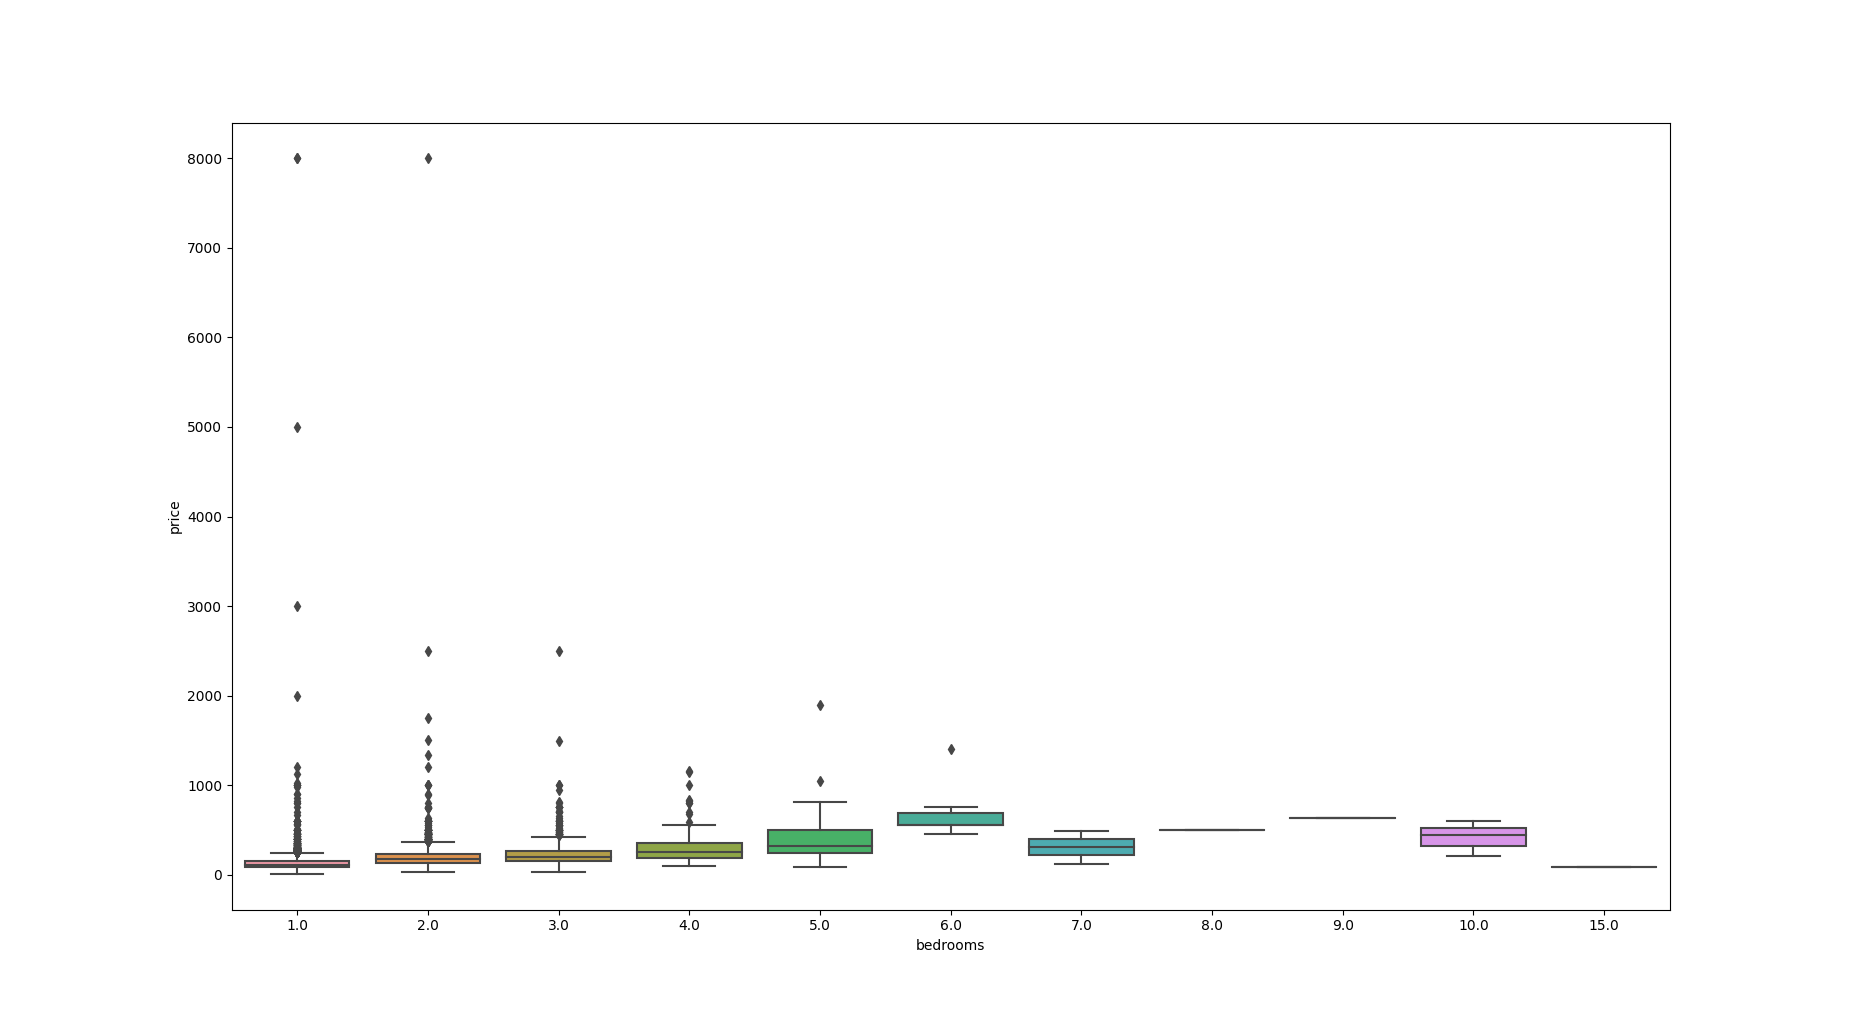
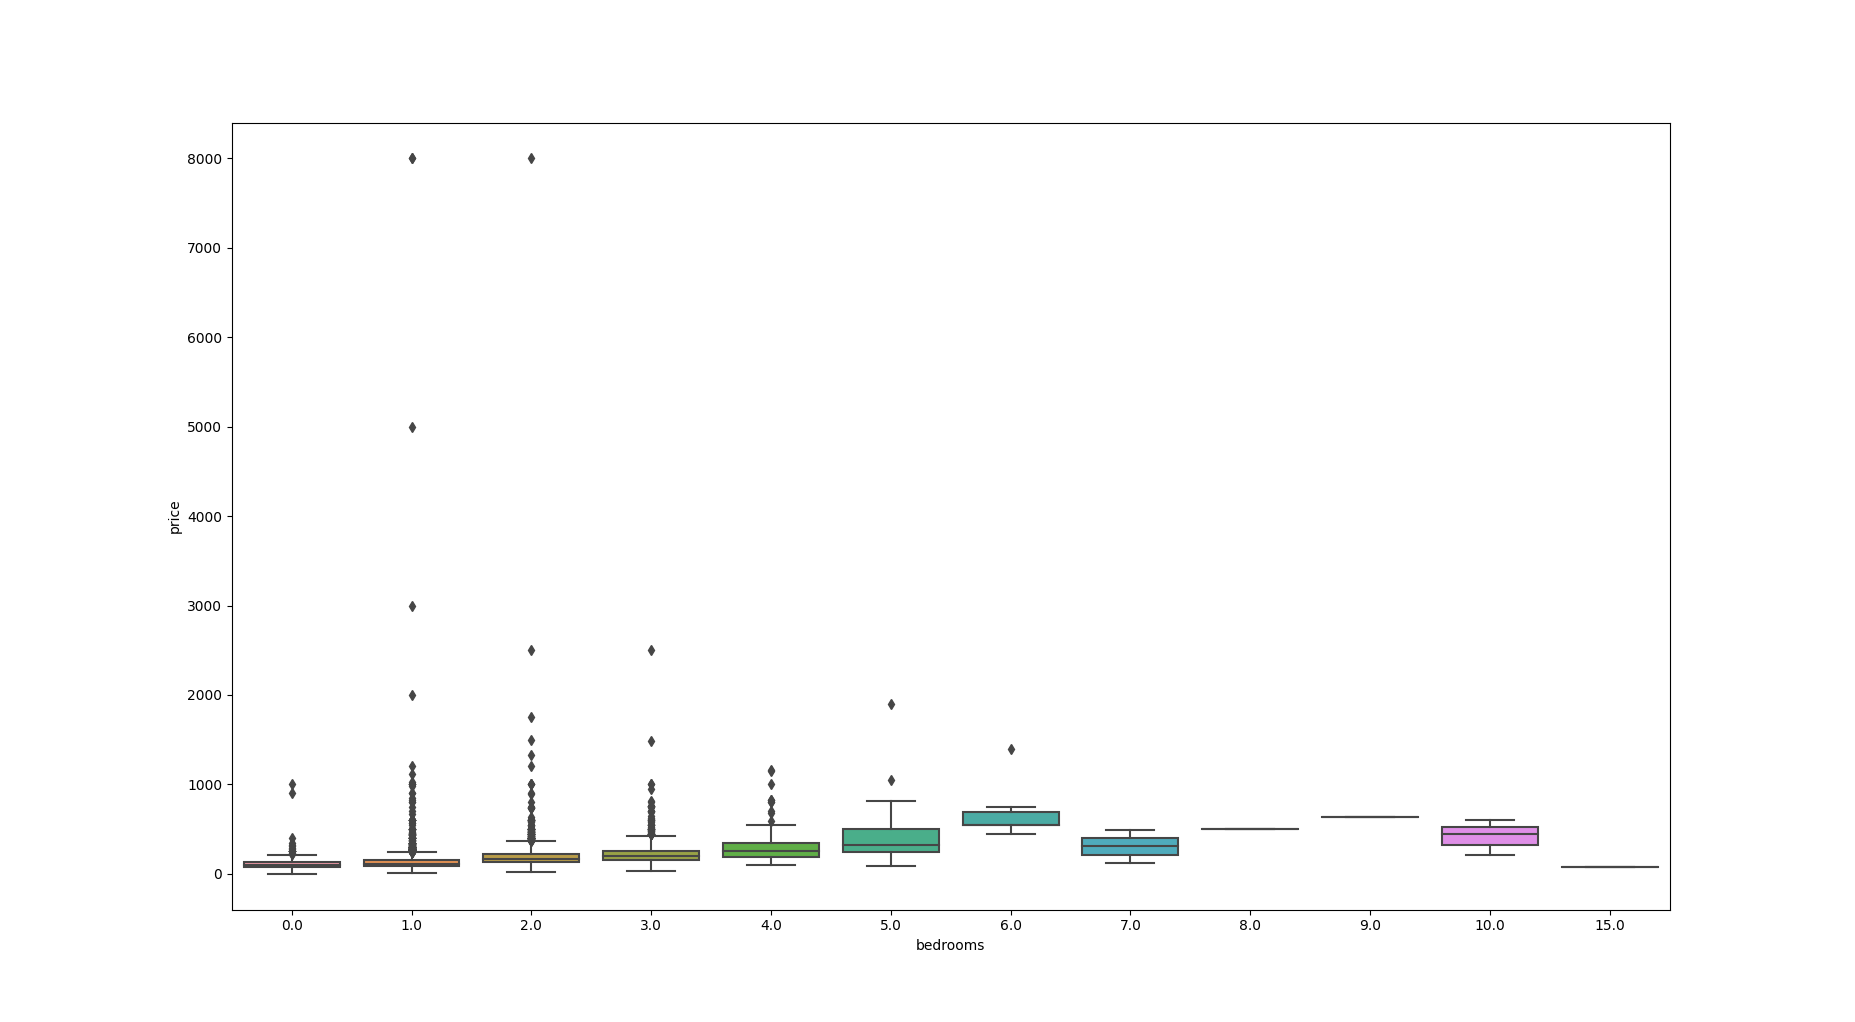
Fixed some bugs and regenerated the relevant boxplots.

diff --git a/pentru_bogdan/MSCA_37014-Final_Project.py b/pentru_bogdan/MSCA_37014-Final_Project.py
@@ -344,7 +344,8 @@ wide_data_format = pd.DataFrame(wide_data_rate, columns=cols, index=airbnb_data_
 # after performing any necessary transformations:
 wide_data_format['number_of_reviews'] = airbnb_data_dropped['number_of_reviews'].astype(float).apply(lambda x: round(x, 0))
 
-wide_data_format['review_scores_rating'] = airbnb_data_dropped['review_scores_rating'].fillna(0)
+airbnb_data_dropped['review_scores_rating'] = airbnb_data_dropped['review_scores_rating'].fillna(0)
+wide_data_format['review_scores_rating'] = airbnb_data_dropped['review_scores_rating']
 wide_data_format['host_name'] = airbnb_data_dropped['host_name']
 wide_data_format['host_neighbourhood'] = airbnb_data_dropped['host_neighbourhood']
 
@@ -426,6 +427,12 @@ print(airbnb_data_dropped[['property_type', 'room_type', 'accommodates',
      'bathrooms_text', 'bedrooms', 'beds', 'amenities', 'price']])
 print()
 
+# As we are about to begin, ensure to replace all NaNs in other interested
+# category variables with equivalent '0'-like values.
+airbnb_data_dropped['bathrooms_text'] = airbnb_data_dropped['bathrooms_text'].fillna("0 baths")
+airbnb_data_dropped['bedrooms'] = airbnb_data_dropped['bedrooms'].fillna(0)
+airbnb_data_dropped['beds'] = airbnb_data_dropped['beds'].fillna(0)
+
 # Boxplots of 'price' distributions grouped by the values of a third 
 # variable can be created using the option by. Here are some examples.
 
@@ -444,56 +451,58 @@ print()
 # estimate various L-estimators, notably the interquartile range, 
 # midhinge, range, mid-range, and trimean."
 
-## boxplot1.png
-#sns.boxplot(y=airbnb_data_dropped["price"], x=airbnb_data_dropped["accommodates"])
-#plt.show()
-#
-## boxplot2.png
-#sns.boxplot(y=airbnb_data_dropped["price"], x=airbnb_data_dropped["property_type"])
-#plt.show()
-#
-## boxplot3.png
-#sns.boxplot(y=airbnb_data_dropped["price"], x=airbnb_data_dropped["bathrooms_text"])
-#plt.show()
-#
-## boxplot4.png
-#sns.boxplot(y=airbnb_data_dropped["price"], x=airbnb_data_dropped["host_neighbourhood"])
-#plt.show()
-#
-## boxplot5.png
-#sns.boxplot(y=airbnb_data_dropped["price"], x=airbnb_data_dropped["calculated_host_listings_count"])
-#plt.show()
+# boxplot1.png
+sns.boxplot(y=airbnb_data_dropped["price"], x=airbnb_data_dropped["accommodates"])
+plt.show()
 
-## boxplot6.png
-#sns.boxplot(y=airbnb_data_dropped["price"], x=airbnb_data_dropped["room_type"])
-#plt.show()
+# boxplot2.png
+sns.boxplot(y=airbnb_data_dropped["price"], x=airbnb_data_dropped["property_type"])
+plt.show()
 
-## boxplot7.png
-#sns.boxplot(y=airbnb_data_dropped["price"], x=airbnb_data_dropped["bedrooms"])
-#plt.show()
-#
-## boxplot8.png
-#sns.boxplot(y=airbnb_data_dropped["price"], x=airbnb_data_dropped["beds"])
-#plt.show()
+# boxplot3.png
+sns.boxplot(y=airbnb_data_dropped["price"], x=airbnb_data_dropped["bathrooms_text"])
+plt.show()
 
-## boxplot9_1.png
-#sns.boxplot(y=airbnb_data_dropped["price"], x=airbnb_data_dropped["host_is_superhost"])
-#plt.show()
-#
-## boxplot9_2.png
-#sns.boxplot(y=airbnb_data_dropped["price"], x=airbnb_data_dropped["host_identity_verified"])
-#plt.show()
+# boxplot4.png
+sns.boxplot(y=airbnb_data_dropped["price"], x=airbnb_data_dropped["host_neighbourhood"])
+plt.show()
 
-## boxplot9_3.png
-#sns.boxplot(y=airbnb_data_dropped["price"], x=airbnb_data_dropped["number_of_reviews"])
-#plt.show()
-#
-## boxplot9_4.png
-#sns.boxplot(y=airbnb_data_dropped["price"], x=airbnb_data_dropped["review_scores_rating"])
-#plt.show()
+# boxplot5.png
+sns.boxplot(y=airbnb_data_dropped["price"], x=airbnb_data_dropped["calculated_host_listings_count"])
+plt.show()
+
+# boxplot6.png
+sns.boxplot(y=airbnb_data_dropped["price"], x=airbnb_data_dropped["room_type"])
+plt.show()
+
+# boxplot7.png
+sns.boxplot(y=airbnb_data_dropped["price"], x=airbnb_data_dropped["bedrooms"])
+plt.show()
+
+# boxplot8.png
+sns.boxplot(y=airbnb_data_dropped["price"], x=airbnb_data_dropped["beds"])
+plt.show()
+
+# boxplot9_1.png
+sns.boxplot(y=airbnb_data_dropped["price"], x=airbnb_data_dropped["host_is_superhost"])
+plt.show()
+
+# boxplot9_2.png
+sns.boxplot(y=airbnb_data_dropped["price"], x=airbnb_data_dropped["host_identity_verified"])
+plt.show()
+
+# boxplot9_3.png
+sns.boxplot(y=airbnb_data_dropped["price"], x=airbnb_data_dropped["number_of_reviews"])
+plt.show()
+
+# boxplot9_4.png
+sns.boxplot(y=airbnb_data_dropped["price"], x=airbnb_data_dropped["review_scores_rating"])
+plt.show()
 
 # Based upon analysis of the various boxplots, removing outliers: price > 2000
 outliers_data_dropped = airbnb_data_dropped[airbnb_data_dropped["price"] < 2000]
+
+logarithm_listing_price = np.log(outliers_data_dropped["price"])
 
 # Histograms of listing price and log of listing price for further price
 # data visualization and comparison:
@@ -512,10 +521,10 @@ outliers_data_dropped = airbnb_data_dropped[airbnb_data_dropped["price"] < 2000]
 #figure5.show()
 #
 #figure6 = go.Figure()
-#figure6.add_trace(go.Histogram(x=np.log(outliers_data_dropped["price"]), 
-#                                        name='logarithm of listing price',
-#                                        marker_color='#E36414', #Metallic Orange
-#                                        opacity=0.75))
+#figure6.add_trace(go.Histogram(x=logarithm_listing_price, 
+#                                 name='logarithm of listing price',
+#                                 marker_color='#E36414', #Metallic Orange
+#                                 opacity=0.75))
 #figure6.update_layout(
 #    title_text='Logarithm of Listing Price Histogram', # title of plot
 #    xaxis_title_text='Logarithm of Price', # xaxis label
@@ -565,27 +574,63 @@ print()
 print(outliers_data_dropped["bathrooms_text"].value_counts())
 print()
 
-# Convert categorical variable into dummy/indicator variables:
-dummies_superhost = pd.get_dummies(outliers_data_dropped["host_is_superhost"])
-print(dummies_superhost)
+print(outliers_data_dropped.info())
 print()
+
+# Convert categorical variable into dummy/indicator variables. Note that
+# it is recommended leaving "drop_first=False" (the default). If drop_first=True,
+# you have no way to know from the dummies dataframe alone what the name
+# of the "first" dummy category column/variable was, so that operation
+# becomes non-invertible. Also, further note that by default, dummy_na=False.
+# This is precisely what we want, and that option would have only caused
+# issues if our category variables had had NaN values. But we have already
+# ensured that this is not the case by our previous 'cleanings' operations,
+# and have confirmed so with the "outliers_data_dropped.info()" call on line 577.
+dummies_superhost = pd.get_dummies(outliers_data_dropped["host_is_superhost"],
+                                   drop_first=False, dummy_na=False)
+#print(dummies_superhost)
+#print()
 
 dummies_neighbourhood = pd.get_dummies(outliers_data_dropped["host_neighbourhood"])
-print(dummies_neighbourhood)
-print()
+#print(dummies_neighbourhood)
+#print()
 
 dummies_identity_verified = pd.get_dummies(outliers_data_dropped["host_identity_verified"])
-print(dummies_identity_verified)
-print()
+#print(dummies_identity_verified)
+#print()
 
 dummies_property_type = pd.get_dummies(outliers_data_dropped["property_type"])
-print(dummies_property_type)
-print()
+#print(dummies_property_type)
+#print()
 
 dummies_room_type = pd.get_dummies(outliers_data_dropped["room_type"])
-print(dummies_room_type)
-print()
+#print(dummies_room_type)
+#print()
 
 dummies_bathrooms_text = pd.get_dummies(outliers_data_dropped["bathrooms_text"])
-print(dummies_bathrooms_text)
+#print(dummies_bathrooms_text)
+#print()
+
+# More verifications of dimension matches:
+print(len(logarithm_listing_price))
 print()
+
+print(len(dummies_superhost))
+print()
+
+print(len(dummies_neighbourhood))
+print()
+
+print(len(dummies_identity_verified))
+print()
+
+print(len(dummies_property_type))
+print()
+
+print(len(dummies_room_type))
+print()
+
+print(len(dummies_bathrooms_text))
+print()
+
+
